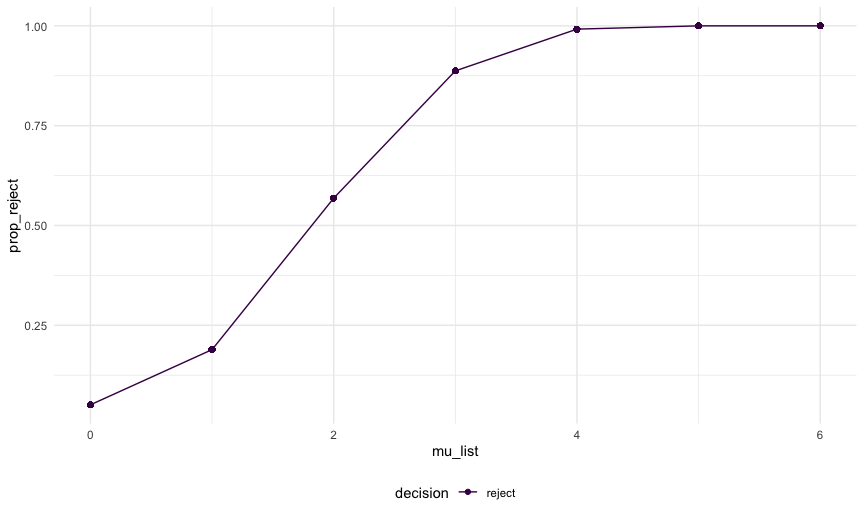
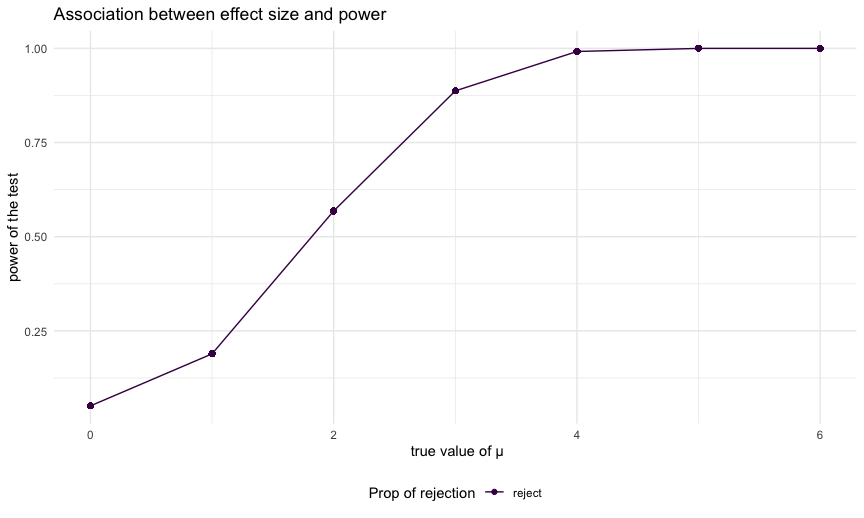
plot2 for prob3

diff --git a/p8105_hw5_xy2476.md b/p8105_hw5_xy2476.md
@@ -410,7 +410,6 @@ sim_results =
 
 Make a plot showing the proportion of times the null was rejected (the
 power of the test) on the y axis and the true value of μ on the x axis.
-Describe the association between effect size and power.
 
 ``` r
 reject_table = 
@@ -420,7 +419,10 @@ reject_table =
       case_when(
         p.value >= 0.05 ~ "fail to reject",
         p.value < 0.05 ~ "reject"
-      )) %>% 
+      )) 
+
+reject_prop = 
+  reject_table %>% 
   group_by(decision, mu_list) %>% 
   summarize(
     count = n()
@@ -434,15 +436,24 @@ reject_table =
 
 ``` r
 prop_data1 = 
-  left_join(sim_results, reject_table, by = "mu_list")
+  left_join(sim_results, reject_prop, by = "mu_list")
   
 
 prop_data1 %>% 
   ggplot(aes(x = mu_list, y = prop_reject, color = decision)) +
-  geom_point() + geom_line()
+  geom_point() + geom_line() +
+  labs(title = "Association between effect size and power",
+       x = " true value of μ",
+       y = "power of the test") +
+  guides(color = guide_legend(title = "Prop of rejection")) 
 ```
 
 <img src="p8105_hw5_xy2476_files/figure-gfm/unnamed-chunk-10-1.png" width="90%" />
+Describe the association between effect size and power:
+
+Make a second plot (or overlay on the first) the average estimate of μ̂
+only in samples for which the null was rejected on the y axis and the
+true value of μ on the x axis.
 
 ``` r
 mean_table = 
@@ -452,3 +463,60 @@ mean_table =
 ```
 
     ## `summarise()` ungrouping output (override with `.groups` argument)
+
+``` r
+#plot showing average estimate of mu on the y axis and the true value of mu on x axis
+plot_1 = 
+  mean_table %>% 
+  ggplot(aes(x = mu_list, y = mean_mu)) + 
+  geom_point() + geom_line()
+
+reject_mean = 
+  reject_table %>% 
+  filter(decision == "reject") %>% 
+  group_by(mu_list) %>% 
+  summarize(
+    mean_estimate = mean(estimate)
+  )
+```
+
+    ## `summarise()` ungrouping output (override with `.groups` argument)
+
+``` r
+#plot second plot the average estimate in samples for which the null was rejected on y and the true value mu on x 
+plot_2 =
+  reject_mean %>% 
+  ggplot(aes(x = mu_list, y = mean_estimate)) +
+  geom_point() + geom_line()
+
+  
+#Make a plot showing the average estimate of μ̂  on the y axis and the true value of μ on the x axis. Make a second plot (or overlay on the first) the average estimate of μ̂  only in samples for which the null was rejected on the y axis and the true value of μ on the x axis. Is the sample average of μ̂  across tests for which the null is rejected approximately equal to the true value of μ? Why or why not?
+
+combine_df = 
+  left_join(mean_table, reject_mean, by = "mu_list") %>%  
+  pivot_longer(
+    mean_mu:mean_estimate,
+    names_to = "type",
+    values_to = "average_estimated_mu"
+  ) %>% 
+  ggplot(aes(x = mu_list, y = average_estimated_mu, color = type))+
+  geom_point() + geom_line()
+  
+
+#overlay plot_1 and plot_2
+  
+plot(mean_table, type ="l", ylab = "mean mu",
+     main = "Comparision between True mu and Average Estimated mu", xlab = "True value of mu",
+     col = "blue")
+par(new = TRUE)
+plot(reject_mean, type = "l", xaxt = "n", yaxt = "n",
+     ylab = "", xlab = "", col = "red", lty = 2)
+axis(side = 4)
+legend("topleft", c("true", "significant only"),
+       col = c("blue", "red"), lty = c(1, 2))
+```
+
+<img src="p8105_hw5_xy2476_files/figure-gfm/unnamed-chunk-11-1.png" width="90%" />
+
+Is the sample average of μ̂ across tests for which the null is rejected
+approximately equal to the true value of μ? Why or why not?
